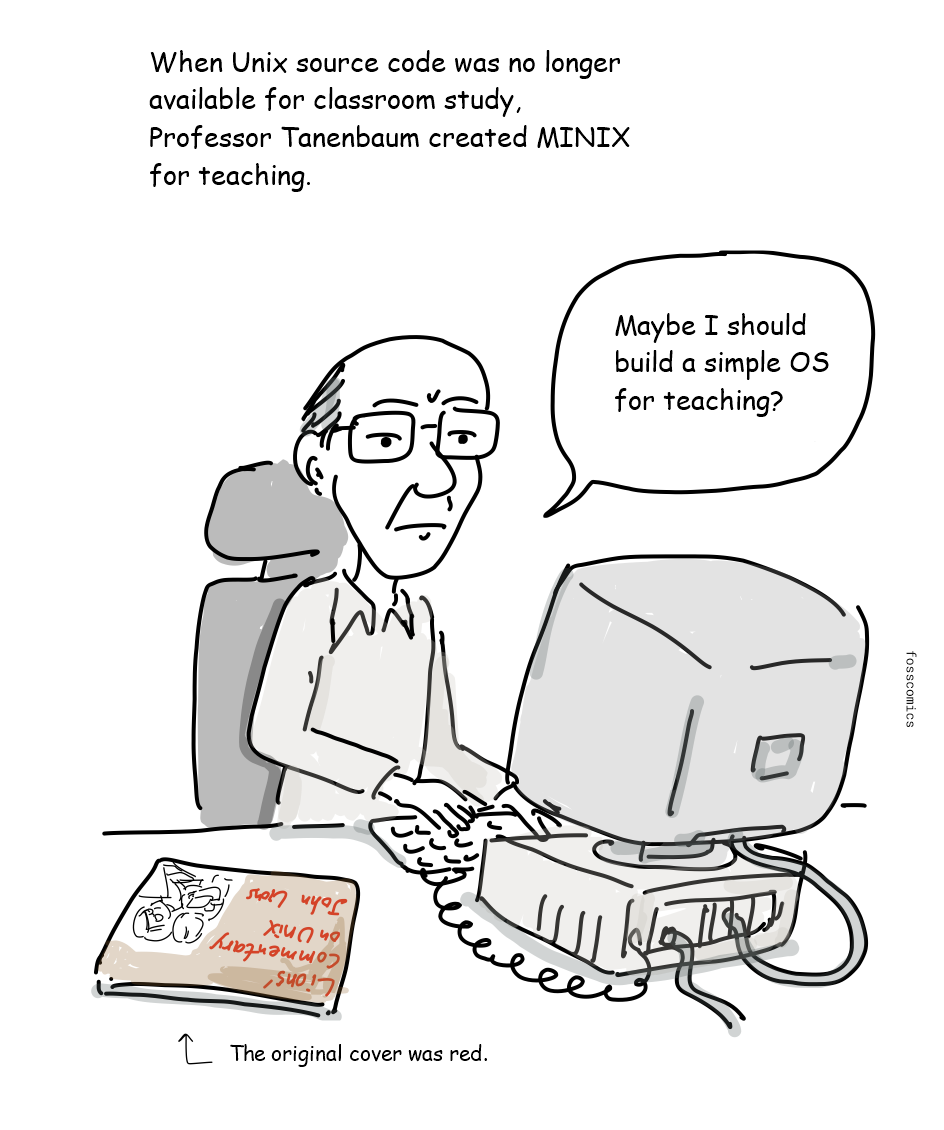
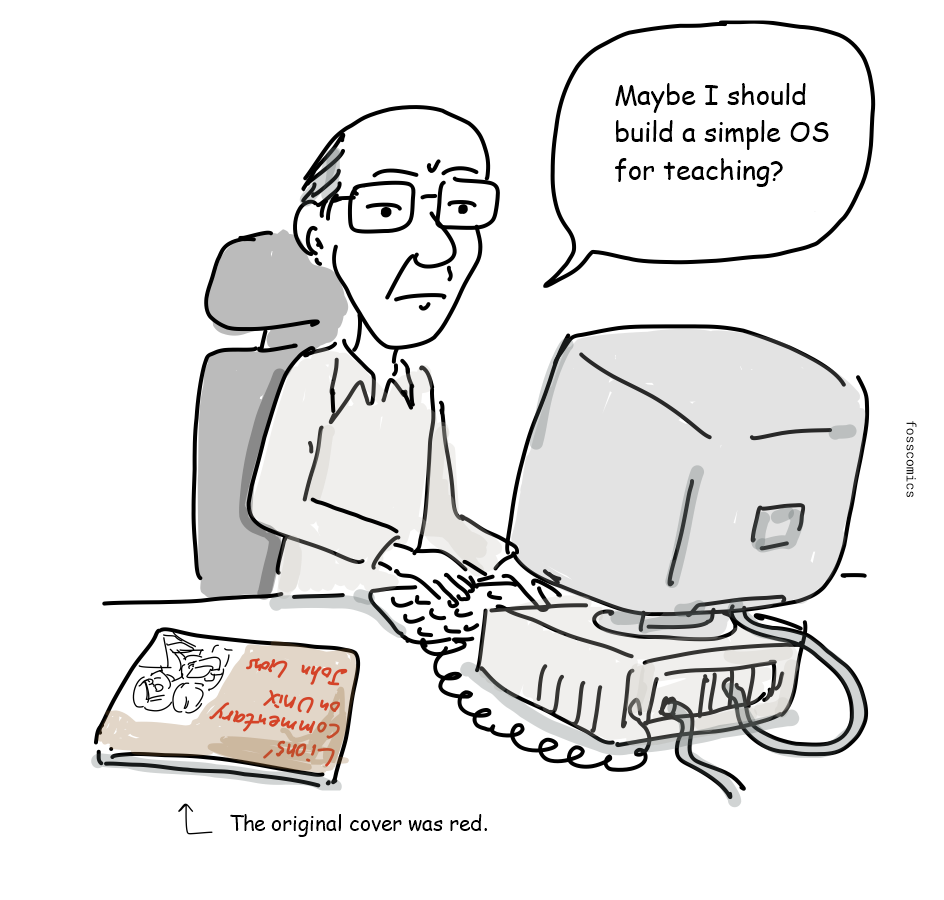
Deploy 2e2983fcdaf68adfb65a55aade2731b723e1626f

diff --git a/ko/posts/9. The Unix Philosophy/index.html b/ko/posts/9. The Unix Philosophy/index.html
@@ -54,7 +54,7 @@
         <meta property="og:url" content="https://fosscomics.com/ko/posts/9. The Unix Philosophy/" />
         <meta property="og:title" content="9. 유닉스 철학" />
         <meta property="og:description" content="유닉스가 만들어진 지 반세기가 넘었지만, 그 철학과 코드는 리눅스와 macOS를 비롯한 여러 운영체제에 여전히 살아 있습니다. 하나의 일을 잘하는 작은 프로그램을 만들고, 이들을 함께 동작하게 하며, 텍스트 스트림으로 소통하게 한다는 단순한 접근 방식이 유닉스의 오랜 영향력을 만들었습니다." />
-        <meta property="og:image" content="https://fosscomics.com/ko/posts/9. The Unix Philosophy/images/feature.png" />
+        <meta property="og:image" content="https://fosscomics.com/ko/posts/9. The Unix Philosophy/images/feature_ko.png" />
         <meta property="article:author" content="Joone Hur" />
         <meta property="article:published_time" content="2026-08-22" />
         <meta property="article:tag" content="BSD">
@@ -72,7 +72,7 @@
         <meta name="twitter:creator" content="@joone" />
         <meta name="twitter:title" content="9. 유닉스 철학" />
         <meta name="twitter:description" content="유닉스가 만들어진 지 반세기가 넘었지만, 그 철학과 코드는 리눅스와 macOS를 비롯한 여러 운영체제에 여전히 살아 있습니다. 하나의 일을 잘하는 작은 프로그램을 만들고, 이들을 함께 동작하게 하며, 텍스트 스트림으로 소통하게 한다는 단순한 접근 방식이 유닉스의 오랜 영향력을 만들었습니다." />
-        <meta name="twitter:image" content="https://fosscomics.com/ko/posts/9. The Unix Philosophy/images/feature.png" />
+        <meta name="twitter:image" content="https://fosscomics.com/ko/posts/9. The Unix Philosophy/images/feature_ko.png" />
         <script>
           document.documentElement.classList.add("transcripts-hidden");
           try {
@@ -115,7 +115,7 @@
                     <p>IT 기술은 놀라운 속도로 변화하고 발전해 왔다. 하지만 유닉스는 만들어진 지 반세기가 넘었고, 그 철학과 API 설계, 도구는 유닉스와 유닉스 계열 운영체제에 여전히 살아 있다.</p>
         <div class="image-container" style="text-align: center;">
           <figure style="text-align: center;">
-            <img src="images/9_1.png" alt="지팡이를 짚은 수염 긴 노인 모습의 유닉스가 지친 표정을 짓고 있다." class="sized-image" style="width: 50%;">
+            <img src="images/9_1_ko.png" alt="지팡이를 짚은 수염 긴 노인 모습의 유닉스가 지친 표정을 짓고 있다." class="sized-image" style="width: 50%;">
             
           </figure>
         </div>
@@ -133,52 +133,52 @@ flowchart TB
     MacOSX --&gt; macOS([macOS])
     MacOSX --&gt; iOS([iOS])
     MINIX([MINIX]) -. 개발에 영향을 줌 .-&gt; Linux([Linux])
-    Linux -. 윈도우에서 실행 .-&gt; WSL([WSL])</pre><p>미닉스(MINIX)는 운영체제 설계를 가르치기 위해 만든 작은 유닉스 계열 운영체제다. 더 자세한 가계도는 <a href="https://en.wikipedia.org/wiki/Unix_history#/media/File:Unix_history-simple.svg ">위키피디아</a>를 참고하자.</p>
+    Linux -. 윈도우에서 실행 .-&gt; WSL([WSL])</pre><p>미닉스(MINIX)는 운영체제 설계를 가르치기 위해 만든 작은 유닉스 계열 운영체제다. 더 자세한 가계도는 <a href="https://en.wikipedia.org/wiki/Unix_history#/media/File:Unix_history-simple.svg ">위키피디아</a>를 참고하자.</p><p>유닉스 소스 코드를 수업에서 더 이상 사용할 수 없게 되자, 타넨바움 교수는 교육용 미닉스를 만들었다.</p>
         <div class="image-container" style="text-align: center;">
           <figure style="text-align: center;">
-            <img src="images/9_2.png" alt="앤드루 타넨바움이 컴퓨터 앞에서 라이온스의 유닉스 해설서와 함께 작업하고 있다.">
+            <img src="images/9_2_ko.png" alt="앤드루 타넨바움이 컴퓨터 앞에서 라이온스의 유닉스 해설서와 함께 작업하고 있다.">
             
           </figure>
         </div>
-      <div class="blockquote-container image-dialogue"><blockquote><p>유닉스 소스 코드를 수업에서 더 이상 사용할 수 없게 되자, 타넨바움 교수는 교육용 미닉스를 만들었다.<br><span class="dialogue-quote dialogue-quote-open">“</span>운영체제 수업에 쓸 간단한 OS를 하나 만들어 볼까?<span class="dialogue-quote dialogue-quote-close">”</span></p></blockquote></div>
+      <div class="blockquote-container image-dialogue"><blockquote><p><span class="dialogue-quote dialogue-quote-open">“</span>운영체제 수업에 쓸 간단한 OS를 하나 만들어 볼까?<span class="dialogue-quote dialogue-quote-close">”</span><br><em>(원래 표지는 빨간색이었다.)</em></p></blockquote></div><p>리누스 토발즈는 미닉스를 사용하고 타넨바움의 <em>Operating Systems: Design and Implementation</em>을 읽으며 리눅스 커널 개발을 시작했다.</p>
         <div class="image-container" style="text-align: center;">
           <figure style="text-align: center;">
-            <img src="images/9_3.png" alt="리누스 토발즈가 컴퓨터 앞에서 운영체제 교재를 읽고 있다.">
+            <img src="images/9_3_ko.png" alt="리누스 토발즈가 컴퓨터 앞에서 운영체제 교재를 읽고 있다.">
             
           </figure>
         </div>
-      <div class="blockquote-container image-dialogue"><blockquote><p>리누스 토발즈는 미닉스를 사용하고 타넨바움의 <em>Operating Systems: Design and Implementation</em>을 읽으며 리눅스 커널 개발을 시작했다.<br><span class="dialogue-quote dialogue-quote-open">“</span>긴 겨울 방학인데... 이 미닉스 책이나 읽어볼까.<span class="dialogue-quote dialogue-quote-close">”</span></p></blockquote></div>
+      <div class="blockquote-container image-dialogue"><blockquote><p><span class="dialogue-quote dialogue-quote-open">“</span>긴 겨울 방학인데... 이 미닉스 책이나 읽어볼까.<span class="dialogue-quote dialogue-quote-close">”</span></p></blockquote></div>
         <div class="image-container" style="text-align: center;">
           <figure style="text-align: center;">
-            <img src="images/9_4.png" alt="발표자가 UNIX라고 적힌 컴퓨터 옆에 앉아 손짓하고 있다." class="sized-image" style="width: 70%;">
+            <img src="images/9_4_ko.png" alt="발표자가 UNIX라고 적힌 컴퓨터 옆에 앉아 손짓하고 있다." class="sized-image" style="width: 70%;">
             
           </figure>
         </div>
       <div class="blockquote-container image-dialogue"><blockquote><p><span class="dialogue-quote dialogue-quote-open">“</span>어떻게 유닉스는 지금까지도 기술 세계에 영향을 주고 있을까?<span class="dialogue-quote dialogue-quote-close">”</span></p></blockquote></div><p>그 해답을 찾으려면 유닉스 철학을 알아야 한다. 물론 유닉스가 처음부터 거창한 철학을 가지고 시작한 것은 아니다. 에릭 S. 레이먼드는 나중에 이를 익숙한 설계 원칙으로 요약했다.</p>
         <div class="image-container" style="text-align: center;">
           <figure style="text-align: center;">
-            <img src="images/9_5.png" alt="켄 톰프슨과 데니스 리치가 손가락을 하나씩 들고 간결한 설계 원칙을 말한다." class="sized-image" style="width: 60%;">
+            <img src="images/9_5_ko.png" alt="켄 톰프슨과 데니스 리치가 손가락을 하나씩 들고 간결한 설계 원칙을 말한다." class="sized-image" style="width: 60%;">
             
           </figure>
         </div>
       <div class="blockquote-container image-dialogue"><blockquote><p><span class="dialogue-quote dialogue-quote-open">“</span>간단하고 멍청하게 하자.<span class="dialogue-quote dialogue-quote-close">”</span><a href="http://www.catb.org/esr/writings/taoup/html/ch01s07.html "title="에릭 S. 레이먼드의 유닉스 철학 요약">&lbrack;1&rbrack;</a></p></blockquote></div>
         <div class="image-container" style="text-align: center;">
           <figure style="text-align: center;">
-            <img src="images/9_6.png" alt="발표자가 어리둥절한 표정으로 좀 더 제대로 된 설명을 요구한다." class="sized-image" style="width: 70%;">
+            <img src="images/9_6_ko.png" alt="발표자가 어리둥절한 표정으로 좀 더 제대로 된 설명을 요구한다." class="sized-image" style="width: 70%;">
             
           </figure>
         </div>
       <div class="blockquote-container image-dialogue"><blockquote><p><span class="dialogue-quote dialogue-quote-open">“</span>아니, 농담 말고 진짜 철학을 설명해 주세요.<span class="dialogue-quote dialogue-quote-close">”</span></p></blockquote></div>
         <div class="image-container" style="text-align: center;">
           <figure style="text-align: center;">
-            <img src="images/9_7.png" alt="톰프슨과 리치, 벨 연구소 동료들이 조금 머뭇거리며 함께 대답한다." class="sized-image" style="width: 60%;">
+            <img src="images/9_7_ko.png" alt="켄 톰프슨이 무표정한 얼굴로 잠시 생각에 잠겨 있다." class="sized-image" style="width: 60%;">
             
           </figure>
         </div>
       <div class="blockquote-container image-dialogue"><blockquote><p><span class="dialogue-quote dialogue-quote-open">“</span>음... 그냥 만들었는데...<span class="dialogue-quote dialogue-quote-close">”</span></p></blockquote></div><p>위키피디아에서는 유닉스 철학을 다음과 같이 설명한다. &quot;<a href="https://en.wikipedia.org/wiki/Ken_Thompson ">켄 톰프슨</a>에게서 비롯된 <strong>유닉스 철학</strong>은 <a href="https://en.wikipedia.org/wiki/Minimalism_%28computing%29 ">최소주의</a>와 <a href="https://en.wikipedia.org/wiki/Modularity_%28programming%29 ">모듈화</a>에 기반한 <a href="https://en.wikipedia.org/wiki/Software_development ">소프트웨어 개발</a>의 문화적 규범과 철학적 접근 방식이다. 이는 <a href="https://en.wikipedia.org/wiki/Unix ">유닉스</a> <a href="https://en.wikipedia.org/wiki/Operating_system ">운영체제</a>를 이끈 개발자들의 경험을 바탕으로 한다.&quot;<a href="https://en.wikipedia.org/wiki/Unix_philosophy "title="유닉스 철학, 위키피디아">&lbrack;2&rbrack;</a></p>
         <div class="image-container" style="text-align: center;">
           <figure style="text-align: center;">
-            <img src="images/9_8.png" alt="발표자가 여전히 이해하지 못한 표정으로 머리를 긁적인다." class="sized-image" style="width: 60%;">
+            <img src="images/9_8_ko.png" alt="발표자가 여전히 이해하지 못한 표정으로 머리를 긁적인다." class="sized-image" style="width: 60%;">
             
           </figure>
         </div>
@@ -191,7 +191,7 @@ flowchart TB
 
         <div class="image-container" style="text-align: center;">
           <figure style="text-align: center;">
-            <img src="images/9_9.png" alt="수염 난 독자가 긴 목록을 바라보며 너무 길다고 생각한다." class="sized-image" style="width: 60%;">
+            <img src="images/9_9_ko.png" alt="수염 난 톰프슨이 무표정한 얼굴로 생각에 잠겨 있다." class="sized-image" style="width: 60%;">
             
           </figure>
         </div>
@@ -203,21 +203,21 @@ flowchart TB
 
         <div class="image-container" style="text-align: center;">
           <figure style="text-align: center;">
-            <img src="images/9_10.png" alt="발표자가 색색의 장난감 블록을 연결해 더 큰 구조물을 만든다." class="sized-image" style="width: 60%;">
+            <img src="images/9_10_ko.png" alt="발표자가 색색의 장난감 블록을 연결해 더 큰 구조물을 만든다." class="sized-image" style="width: 60%;">
             
           </figure>
         </div>
       <div class="blockquote-container image-dialogue"><blockquote><p><span class="dialogue-quote dialogue-quote-open">“</span>레고 블록처럼!<span class="dialogue-quote dialogue-quote-close">”</span></p></blockquote></div><p>레고 블록처럼 유닉스 프로그램은 입력과 출력을 서로 연결해 더 복잡한 도구를 만들 수 있다. 이후 유닉스의 대부분이 C언어로 다시 작성되면서 여러 컴퓨터로 훨씬 쉽게 이식할 수 있게 되었다.</p>
         <div class="image-container" style="text-align: center;">
           <figure style="text-align: center;">
-            <img src="images/9_11.png" alt="한 사람이 상자를 들고 떠나자 다른 사람이 뒤에서 부른다." class="sized-image" style="width: 80%;">
+            <img src="images/9_11_ko.png" alt="발표자가 한 손을 입가에 대고 화면 밖의 누군가를 부른다." class="sized-image" style="width: 80%;">
             
           </figure>
         </div>
       <div class="blockquote-container image-dialogue"><blockquote><p><span class="dialogue-quote dialogue-quote-open">“</span>물론 유닉스에는 또 다른 장점도 있었지. 소스 코드가 여기저기 돌아다니곤 했거든. 하지만 그 이야기는 다음 기회에...<span class="dialogue-quote dialogue-quote-close">”</span><br><span class="dialogue-quote dialogue-quote-open">“</span>어디 가세요?<span class="dialogue-quote dialogue-quote-close">”</span></p></blockquote></div>
         <div class="image-container" style="text-align: center;">
           <figure style="text-align: center;">
-            <img src="images/9_12.png" alt="선글라스를 쓴 프로그래머가 유닉스 소스 코드가 담긴 자기 테이프 상자를 들고 간다." class="sized-image" style="width: 70%;">
+            <img src="images/9_12_ko.png" alt="선글라스를 쓴 프로그래머가 손잡이 달린 상자를 들고 간다." class="sized-image" style="width: 70%;">
             
           </figure>
         </div>

diff --git a/posts/4. How Did People Write Code in the Early Days of Computing/index.html b/posts/4. How Did People Write Code in the Early Days of Computing/index.html
@@ -124,40 +124,40 @@
             
           </figure>
         </div>
-      <div class="blockquote-container image-dialogue"><blockquote><p>&quot;Could I build one for ballistic calculations?&quot; <br>&quot;How many relays and vacuum tubes would it need?&quot;</p></blockquote></div><p>Programming became much more practical when stored-program computers were introduced. A program could be loaded into electronic memory and executed without rewiring the machine. The Manchester Baby ran a stored program in 1948, and <a href="https://en.wikipedia.org/wiki/EDSAC ">EDSAC</a> entered regular operation in 1949. <a href="https://en.wikipedia.org/wiki/EDVAC ">EDVAC</a> was highly influential in the development of the stored-program design, although it became operational later.</p><p>A program is made up of instructions that a machine can understand and execute. At the lowest level, these instructions are called <a href="https://en.wikipedia.org/wiki/Machine_code ">machine code</a>. Machine code is encoded as patterns of binary digits, or zeros and ones, which are difficult for people to read and remember.</p>
+      <div class="blockquote-container image-dialogue"><blockquote><p>&quot;Could I build one for ballistic calculations?&quot; <br>&quot;How many relays and vacuum tubes would it need?&quot;</p></blockquote></div><p>Programming became much more practical when stored-program computers were introduced. A program could be loaded into electronic memory and executed without rewiring the machine. The Manchester Baby ran a stored program in 1948, and <a href="https://en.wikipedia.org/wiki/EDSAC ">EDSAC</a> entered regular operation in 1949. <a href="https://en.wikipedia.org/wiki/EDVAC ">EDVAC</a> was highly influential in the development of the stored-program design, although it became operational later.</p><p>A program is made up of instructions that a machine can understand and execute. At the lowest level, these instructions are called <a href="https://en.wikipedia.org/wiki/Machine_code ">machine code</a>. On binary computers such as EDSAC, machine code is encoded as patterns of binary digits, or zeros and ones, which are difficult for people to read and remember.</p>
         <div class="image-container" style="text-align: center;">
           <figure style="text-align: center;">
             <img src="images/4_3.png" alt="A programmer in dark glasses stares at rows of binary digits with an exclamation mark overhead." class="sized-image" style="width: 70%;">
             
           </figure>
         </div>
-      <p>That is why assembly language appeared early in the history of computer programming. Assembly language made machine instructions easier to express with short symbolic codes called mnemonics. EDSAC programmers used single-letter order codes, while a hard-wired bootstrap called the Initial Orders loaded programs from paper tape and translated those codes into instructions<a href="http://www.cl.cam.ac.uk/~mr10/edsacposter.pdf "title="EDSAC Initial Orders and Squares Program">&lbrack;2&rbrack;</a>.</p>
+      <p>That is why assembly language appeared early in the history of computer programming. Assembly language made machine instructions easier to express with short symbolic codes called mnemonics. EDSAC programmers used single-letter order codes. A small bootstrap program called the Initial Orders was loaded into memory from hard-wired switches at startup; it then read programs from paper tape and translated their symbolic notation into machine instructions<a href="http://www.cl.cam.ac.uk/~mr10/edsacposter.pdf "title="EDSAC Initial Orders and Squares Program">&lbrack;2&rbrack;</a><a href="https://en.wikipedia.org/wiki/EDSAC#Memory_and_instructions "title="EDSAC instruction format">&lbrack;6&rbrack;</a>.</p>
         <div class="image-container" style="text-align: center;">
           <figure style="text-align: center;">
             <img src="images/4_4.png" alt="A diagram divides two 17-bit EDSAC instructions into an operation code, an unused bit, a ten-bit operand, and a length bit, alongside the mnemonics T0S and H2S." class="sized-image" style="width: 80%;">
             
           </figure>
         </div>
-      <p>Each EDSAC instruction occupied a 17-bit word: a five-bit operation code, one unused bit, a ten-bit address, and a final bit selecting a short or long operand.</p><p>The two EDSAC assembly instructions shown above can be explained as follows:</p><ul>
-<li><code>T 0 S</code>: Store the value in the accumulator at memory address <code>0</code>, then clear the accumulator by resetting it to <code>0</code>.</li>
+      <p>Each EDSAC instruction occupied a 17-bit word: a five-bit operation code, one unused bit, a ten-bit operand field (a memory address in these examples), and a final bit selecting a short or long operand. Short operands were 17 bits; long operands were 35 bits<a href="https://en.wikipedia.org/wiki/EDSAC#Memory_and_instructions "title="EDSAC instruction format">&lbrack;6&rbrack;</a>.</p><p>The two EDSAC assembly instructions shown above can be explained as follows:</p><ul>
+<li><code>T 0 S</code>: Store the upper 17 bits of the value in the accumulator at memory address <code>0</code>, then clear the accumulator by resetting it to <code>0</code>.</li>
 <li><code>H 2 S</code>: Load the value stored at memory address <code>2</code> into the multiplier register, preparing it for a multiplication operation.</li>
-<li>The final <code>S</code> indicates that the instruction uses EDSAC&#39;s short-word format.</li>
+<li>The final <code>S</code> selects a short operand, not a shorter instruction.</li>
 </ul>
-<p>As you can see, raw binary instructions are difficult for people to understand and remember. Assembly language therefore represents each low-level instruction, or operation code, with a mnemonic. Converting assembly language into machine code is called assembling.</p>
+<p>The diagram&#39;s <code>m[0]=A</code> is shorthand for the store operation; the <code>T</code> instruction also clears the accumulator. <code>H</code> prepares a value for multiplication but does not itself multiply.</p><p>As you can see, raw binary instructions are difficult for people to understand and remember. Assembly language therefore represents low-level operations with mnemonics. Converting assembly language into machine code is called assembling. An assembler is the program that performs this conversion; it is not the language itself<a href="https://en.wikipedia.org/wiki/Assembly_language "title="Assembly language and assembler concepts and history">&lbrack;7&rbrack;</a>.</p>
         <div class="image-container" style="text-align: center;">
           <figure style="text-align: center;">
             <img src="images/4_5.png" alt="A programmer writes T0S and H2S on one board while a machine writes the corresponding binary instructions on another.">
             
           </figure>
         </div>
-      <p>In the early days, programmers sometimes did this work by hand, so the process was called hand assembly. Without an assembler, they had to translate assembly code into machine code manually by consulting mnemonic conversion tables. Symbolic assembly languages were already in use by the late 1940s and early 1950s, before high-level languages became common.</p>
+      <p>In the early days, programmers sometimes did this work by hand, so the process was called hand assembly. Without an assembler, they had to translate assembly code into machine code manually by consulting instruction tables, calculating addresses, and combining the fields into complete instructions. This meant doing the translation by hand, not merely writing source code on paper. Not everyone had to do this: EDSAC&#39;s Initial Orders already automated a basic form of assembly. Symbolic assembly languages and early assemblers were in use by the late 1940s and early 1950s, before high-level languages became common<a href="https://en.wikipedia.org/wiki/Assembly_language "title="Assembly language and assembler concepts and history">&lbrack;7&rbrack;</a>.</p>
         <div class="image-container" style="text-align: center;">
           <figure style="text-align: center;">
             <img src="images/4_11.png" alt="A programmer writes code on paper at a desk beside a model rocket." class="sized-image" style="width: 70%;">
             
           </figure>
         </div>
-      <div class="blockquote-container image-dialogue"><blockquote><p>&quot;I&#39;m writing code.&quot;</p></blockquote></div><p>Interactive terminals with keyboards and displays remained uncommon in the early 1960s. <a href="https://en.wikipedia.org/wiki/Multics ">Multics</a>, whose design began in 1964-65 as a joint project of MIT Project MAC, Bell Labs, and General Electric, was intended to let many users work interactively through remote terminals<a href="https://www.multicians.org/history.html "title="History of Multics">&lbrack;3&rbrack;</a>. By the 1970s, screen-and-keyboard terminals had become much more common. But before such terminals became common, how did programmers write code and check the results?</p>
+      <div class="blockquote-container image-dialogue"><blockquote><p>&quot;I&#39;m writing code.&quot;</p></blockquote></div><p>Interactive terminals with keyboards and displays remained uncommon in the early 1960s. Interactive computing did not begin with Multics, however: MIT&#39;s CTSS was first demonstrated in 1961. Early terminals often printed their output on paper rather than displaying it on a screen.</p><p><a href="https://en.wikipedia.org/wiki/Multics ">Multics</a>, whose design began in 1964-65 as a joint project of MIT Project MAC, Bell Labs, and General Electric, was intended to let many users work interactively through remote terminals. Time-sharing divided a computer&#39;s processing time among users so that each could work interactively at a terminal<a href="https://www.multicians.org/history.html "title="History of Multics">&lbrack;3&rbrack;</a>. By the 1970s, screen-and-keyboard terminals had become much more common. But without direct access to a terminal, how did programmers write code and check the results?</p>
         <div class="image-container" style="text-align: center;">
           <figure style="text-align: center;">
             <img src="images/4_6.png" alt="A smiling programmer uses a keyboard beside a large computer with tape reels, a display, and a printer." class="sized-image" style="width: 70%;">
@@ -171,14 +171,14 @@
             <figcaption>Punch card for Fortran programming</figcaption>
           </figure>
         </div>
-      <p>Programmers first wrote source code on coding sheets and checked it by hand. They or a keypunch operator then punched the program onto cards, usually with one source statement per card. Depending on the language and computer, an assembler or compiler translated the submitted program into machine code.</p>
+      <p>Programmers often first wrote source code on coding sheets and checked it by hand. They or a keypunch operator then punched the program onto cards, usually with one source line per card; a long statement could continue across several cards. A keypunch recorded typed characters as holes in cards. Depending on the language and computer, an assembler or compiler running on the computer, not the keypunch, translated the submitted program into machine code.</p>
         <div class="image-container" style="text-align: center;">
           <figure style="text-align: center;">
             <img src="images/4_8.png" alt="A programmer types at a keypunch machine while a punched card feeds through it." class="sized-image" style="width: 70%;">
             <figcaption>IBM 026 keypunch machine</figcaption>
           </figure>
         </div>
-      <div class="blockquote-container image-dialogue"><blockquote><p>&quot;I&#39;d better get this code onto punched cards.&quot;</p></blockquote></div><p>Programmers submitted their card decks to a computer-room operator, who loaded each job into a card reader. They often waited in line to submit a deck and might not receive the printed results until much later. If the program failed, they had to correct or replace the affected cards and submit the deck again.</p>
+      <div class="blockquote-container image-dialogue"><blockquote><p>&quot;I&#39;d better get this code onto punched cards.&quot;</p></blockquote></div><p>Programmers submitted their card decks to a computer-room operator, who loaded each job into a card reader. Collecting jobs and running them in sequence was called batch processing. They often waited in line to submit a deck and might not receive the printed results until much later. If the program failed, they had to correct or replace the affected cards and submit the deck again.</p>
         <div class="image-container" style="text-align: center;">
           <figure style="text-align: center;">
             <img src="images/4_9.png" alt="Four programmers queue with punched cards while an operator accepts jobs at the machine-room window.">
@@ -199,6 +199,8 @@
 <li><a href="https://www.multicians.org/history.html ">History of Multics</a></li>
 <li><a href="https://www.computerhistory.org/revolution/birth-of-the-computer/4/78 ">ENIAC, Computer History Museum</a></li>
 <li><a href="https://www.ibm.com/history/punched-card ">The IBM Punched Card</a></li>
+<li><a href="https://en.wikipedia.org/wiki/EDSAC#Memory_and_instructions ">EDSAC: Memory and Instructions</a></li>
+<li><a href="https://en.wikipedia.org/wiki/Assembly_language ">Assembly Language and Assemblers</a></li>
 </ol>
 
                   </section>

diff --git a/ko/posts/4. How Did People Write Code in the Early Days of Computing/index.html b/ko/posts/4. How Did People Write Code in the Early Days of Computing/index.html
@@ -125,33 +125,38 @@
             
           </figure>
         </div>
-      <p>그래서 컴퓨터 프로그래밍의 초기부터 어셈블리어의 초기 형태가 등장했다. 숫자로 된 기계 명령 대신 니모닉(mnemonic)이라는 짧은 기호를 사용해 명령을 더 쉽게 표현한 것이다. 에드삭 프로그래머들은 한 글자로 된 오더 코드를 사용했고, Initial Orders라는 작은 부트스트랩 프로그램이 종이테이프에서 이 코드를 읽어 기계 명령으로 변환해 메모리로 로딩했다<a href="http://www.cl.cam.ac.uk/~mr10/edsacposter.pdf "title="EDSAC 초기 명령과 제곱수 프로그램">&lbrack;2&rbrack;</a>.</p>
+      <p>그래서 컴퓨터 프로그래밍의 초기부터 어셈블리어의 초기 형태가 등장했다. 숫자로 된 기계 명령 대신 니모닉(mnemonic)이라는 짧은 기호를 사용해 명령을 더 쉽게 표현한 것이다. 에드삭 프로그래머들은 한 글자로 된 오더 코드를 사용했고, Initial Orders라는 작은 부트스트랩 프로그램이 종이테이프에서 이 코드를 읽어 기계 명령으로 변환해 메모리로 로딩했다<a href="http://www.cl.cam.ac.uk/~mr10/edsacposter.pdf "title="EDSAC 초기 명령과 제곱수 프로그램">&lbrack;2&rbrack;</a>.</p><p>EDSAC의 각 명령은 17비트 워드 하나를 차지했다. </p><ul>
+<li>첫번째 열, 다섯 비트는 동작 코드(Operation code)</li>
+<li>두번째 열, 한 비트는 사용하지 않는 비트</li>
+<li>세번째 열, 열 비트는 피연산자(operand)인데, 주소를 나타낸다.</li>
+<li>마지막 비트는 짧은 피연산자와 긴 피연산자 가운데 하나를 선택했다.</li>
+</ul>
+
         <div class="image-container" style="text-align: center;">
           <figure style="text-align: center;">
             <img src="images/4_9_ko.png" alt="두 개의 17비트 EDSAC 명령을 동작 코드, 사용하지 않는 비트, 피연산자 주소, 길이 비트로 나누고 T0S와 H2S 니모닉을 함께 표시한 도표.">
             
           </figure>
         </div>
-      <p>EDSAC의 각 명령은 17비트 워드 하나를 차지했다. 다섯 비트는 동작 코드, 다음 한 비트는 사용하지 않는 비트, 이어지는 열 비트는 주소였고, 마지막 비트는 짧은 피연산자와 긴 피연산자 가운데 하나를 선택했다.</p><p>위 그림에 소개된 EDSAC의 두 어셈블리 명령은 아래와 같이 설명할 수 있다.</p><ul>
-<li><code>T 0 S</code>: 누산기(accumulator)의 값을 메모리 주소 <code>0</code>에 저장한 다음, 누산기를 <code>0</code>으로 초기화한다.</li>
-<li><code>H 2 S</code>: 메모리 주소 <code>2</code>의 값을 곱셈 레지스터(multiplier register)로 불러와 곱셈 연산을 준비한다.</li>
-<li>마지막의 <code>S</code>는 이 명령이 EDSAC의 짧은 워드 형식(short-word format)을 사용한다는 뜻이다.</li>
+      <p>위 그림에 소개된 EDSAC의 두 어셈블리 명령은 아래와 같이 설명할 수 있다.</p><ul>
+<li><code>T 0 S</code>: T는 명령코드로 A를 의미하는 누산기(accumulator)의 값을 메모리 주소 <code>0</code>에 저장한 다음, 누산기를 <code>0</code>으로 초기화한다.</li>
+<li><code>H 2 S</code>: H는 명령코드로 메모리 주소 <code>2</code>의 값을 곱셈 레지스터(multiplier register) R로 불러와 곱셈 연산을 준비한다.</li>
 </ul>
-<p>이와 같이, 기계어는 명령어 자체가 이진수에 불과하기 때문에 사람이 기억하고 바로 코드를 이해하기가 어렵다. 그래서 각각의 명령어를 상징적 기호(mnemonics)로 표현하는 어셈블리(assembly) 언어를 만들었다. 이렇게 표현된 코드를 CPU가 이해할 수 있는 기계어 코드로 변환하는 과정을 어셈블링(assembling)이라고 한다.</p>
+<p>마지막 <code>S</code>는 이 명령이 EDSAC의 짧은 워드 형식(short-word format)을 사용한다는 뜻이다.</p><p>이와 같이, 기계어는 명령어 자체가 이진수에 불과하기 때문에 사람이 기억하고 바로 코드를 이해하기가 어렵다. 그래서 각각의 명령어를 상징적 기호(mnemonics)로 표현하는 어셈블리(assembly) 언어를 만들었다. 이렇게 표현된 코드를 CPU가 이해할 수 있는 기계어 코드로 변환하는 과정을 어셈블링(assembling)이라고 한다.</p>
         <div class="image-container" style="text-align: center;">
           <figure style="text-align: center;">
             <img src="images/4_3_ko.png" alt="프로그래머가 한쪽 판에 T0S와 H2S를 쓰고, 컴퓨터가 다른 판에 대응하는 이진수 명령을 적는다.">
             
           </figure>
         </div>
-      <p>초기에는 프로그래머가 이 작업을 직접 하기도 했기 때문에 핸드 어셈블리(hand assembly)라고 불렀다. 어셈블러가 없으면 니모닉 변환표를 참고해 어셈블리 코드를 기계어로 직접 바꾸어야 했다. 기호식 어셈블리어는 고급 언어가 널리 쓰이기 전인 1940년대 말과 1950년대 초부터 이미 사용되고 있었다.</p>
+      <p>어셈블러를 이용할 수 없는 환경에서는 프로그래머가 어셈블리 코드를 직접 기계어로 바꾸기도 했다. 이를 핸드 어셈블리(hand assembly)라고 한다. 명령어 표에서 니모닉에 해당하는 숫자 코드를 찾고, 필요한 메모리 주소를 계산해 기계어 명령을 완성하는 작업이었다. 이러한 초기 형태의 어셈블리어는 고급 언어가 널리 쓰이기 전인 1940년대 말과 1950년대 초부터 이미 사용되고 있었다.</p>
         <div class="image-container" style="text-align: center;">
           <figure style="text-align: center;">
             <img src="images/4_7_ko.png" alt="프로그래머가 모형 로켓을 옆에 두고 책상에서 종이에 코드를 쓴다.">
             
           </figure>
         </div>
-      <div class="blockquote-container image-dialogue"><blockquote><p><span class="dialogue-quote dialogue-quote-open">“</span>지금은 코딩중<span class="dialogue-quote dialogue-quote-close">”</span></p></blockquote></div><p>1960년대 초까지 키보드와 화면이 있는 대화형 터미널은 흔하지 않았다. 1964~1965년에 MIT Project MAC, 벨 연구소, 제너럴 일렉트릭의 공동 프로젝트로 설계가 시작된 멀틱스(Multics)는 여러 사용자가 원격 터미널을 통해 대화식으로 작업할 수 있도록 디자인되었다<a href="https://www.multicians.org/history.html "title="멀틱스의 역사">&lbrack;3&rbrack;</a>. 1970년대에 들어 화면과 키보드를 갖춘 터미널이 훨씬 보편화되었다. 그렇다면 이런 터미널이 보급되기 전에는 프로그래머들이 어떻게 코드를 작성하고 결과를 확인했을까?</p>
+      <div class="blockquote-container image-dialogue"><blockquote><p><span class="dialogue-quote dialogue-quote-open">“</span>지금은 코딩중<span class="dialogue-quote dialogue-quote-close">”</span></p></blockquote></div><p>1960년대 초에도 터미널에서 명령을 입력하고 결과를 바로 확인하는 대화형 시스템은 있었다. MIT의 CTSS는 1961년에 처음 시연되었다. 다만 초기 터미널은 화면 대신 종이에 결과를 인쇄하는 경우가 많았다. 터미널이 있다고 해서 오늘날처럼 모니터를 보며 작업한 것은 아니었다.</p><p>1964~1965년에 MIT Project MAC, 벨 연구소, 제너럴 일렉트릭의 공동 프로젝트로 설계가 시작된 멀틱스(Multics)는 이러한 시분할 방식을 발전시키려 했다. 시분할은 컴퓨터 한 대의 처리 시간을 여러 사용자에게 짧게 나누어 주어, 각자가 자기 터미널에서 대화식으로 작업할 수 있게 하는 방식이다<a href="https://www.multicians.org/history.html "title="멀틱스의 역사">&lbrack;3&rbrack;</a>. 1970년대에는 화면과 키보드를 갖춘 터미널도 점차 널리 쓰였다. 그렇다면 터미널을 직접 이용할 수 없었던 프로그래머들은 어떻게 코드를 작성하고 결과를 확인했을까?</p>
         <div class="image-container" style="text-align: center;">
           <figure style="text-align: center;">
             <img src="images/4_6_ko.png" alt="프로그래머가 테이프 릴과 화면, 프린터가 달린 대형 컴퓨터 옆에서 키보드를 사용하며 미소 짓는다.">

diff --git a/posts/9. The Unix Philosophy/index.html b/posts/9. The Unix Philosophy/index.html
@@ -133,14 +133,14 @@ flowchart TB
     MacOSX --&gt; macOS([macOS])
     MacOSX --&gt; iOS([iOS])
     MINIX([MINIX]) -. influenced development .-&gt; Linux([Linux])
-    Linux -. runs on Windows through .-&gt; WSL([WSL])</pre><p>MINIX was developed as a small Unix-like system for teaching operating system design. For a more detailed family tree, see <a href="https://en.wikipedia.org/wiki/Unix_history#/media/File:Unix_history-simple.svg ">Wikipedia</a>.</p>
+    Linux -. runs on Windows through .-&gt; WSL([WSL])</pre><p>MINIX was developed as a small Unix-like system for teaching operating system design. For a more detailed family tree, see <a href="https://en.wikipedia.org/wiki/Unix_history#/media/File:Unix_history-simple.svg ">Wikipedia</a>.</p><p>When Unix source code was no longer available for classroom study, Professor Tanenbaum created MINIX for teaching.</p>
         <div class="image-container" style="text-align: center;">
           <figure style="text-align: center;">
             <img src="images/9_2.png" alt="Andrew Tanenbaum works at a computer beside a copy of Lions&#39; Commentary on Unix.">
             
           </figure>
         </div>
-      <div class="blockquote-container image-dialogue"><blockquote><p>When Unix source code was no longer available for classroom study, Professor Tanenbaum created MINIX for teaching.<br>&quot;Maybe I should build a simple OS for teaching operating systems.&quot;</p></blockquote></div>
+      <div class="blockquote-container image-dialogue"><blockquote><p>&quot;Maybe I should build a simple OS for teaching operating systems.&quot;</p></blockquote></div>
         <div class="image-container" style="text-align: center;">
           <figure style="text-align: center;">
             <img src="images/9_3.png" alt="Linus Torvalds reads an operating-systems textbook at a computer.">

diff --git a/ko/index.html b/ko/index.html
@@ -81,7 +81,7 @@
                     <h1><a href="/ko/posts/9. The Unix Philosophy">9. 유닉스 철학</a></h1>
                         <time>2026년 8월 22일</time>
                       <div class="responsive-image">
-                         <img src="/ko/posts/9. The Unix Philosophy/images/feature.png" alt="9. 유닉스 철학">
+                         <img src="/ko/posts/9. The Unix Philosophy/images/feature_ko.png" alt="9. 유닉스 철학">
                       </div>
                       <div class="description">유닉스가 만들어진 지 반세기가 넘었지만, 그 철학과 코드는 리눅스와 macOS를 비롯한 여러 운영체제에 여전히 살아 있습니다. 하나의 일을 잘하는 작은 프로그램을 만들고, 이들을 함께 동작하게 하며, 텍스트 스트림으로 소통하게 한다는 단순한 접근 방식이 유닉스의 오랜 영향력을 만들었습니다.</div>
                       <a class="readmore" href="/ko/posts/9. The Unix Philosophy">더 읽기 ⟶</a>
